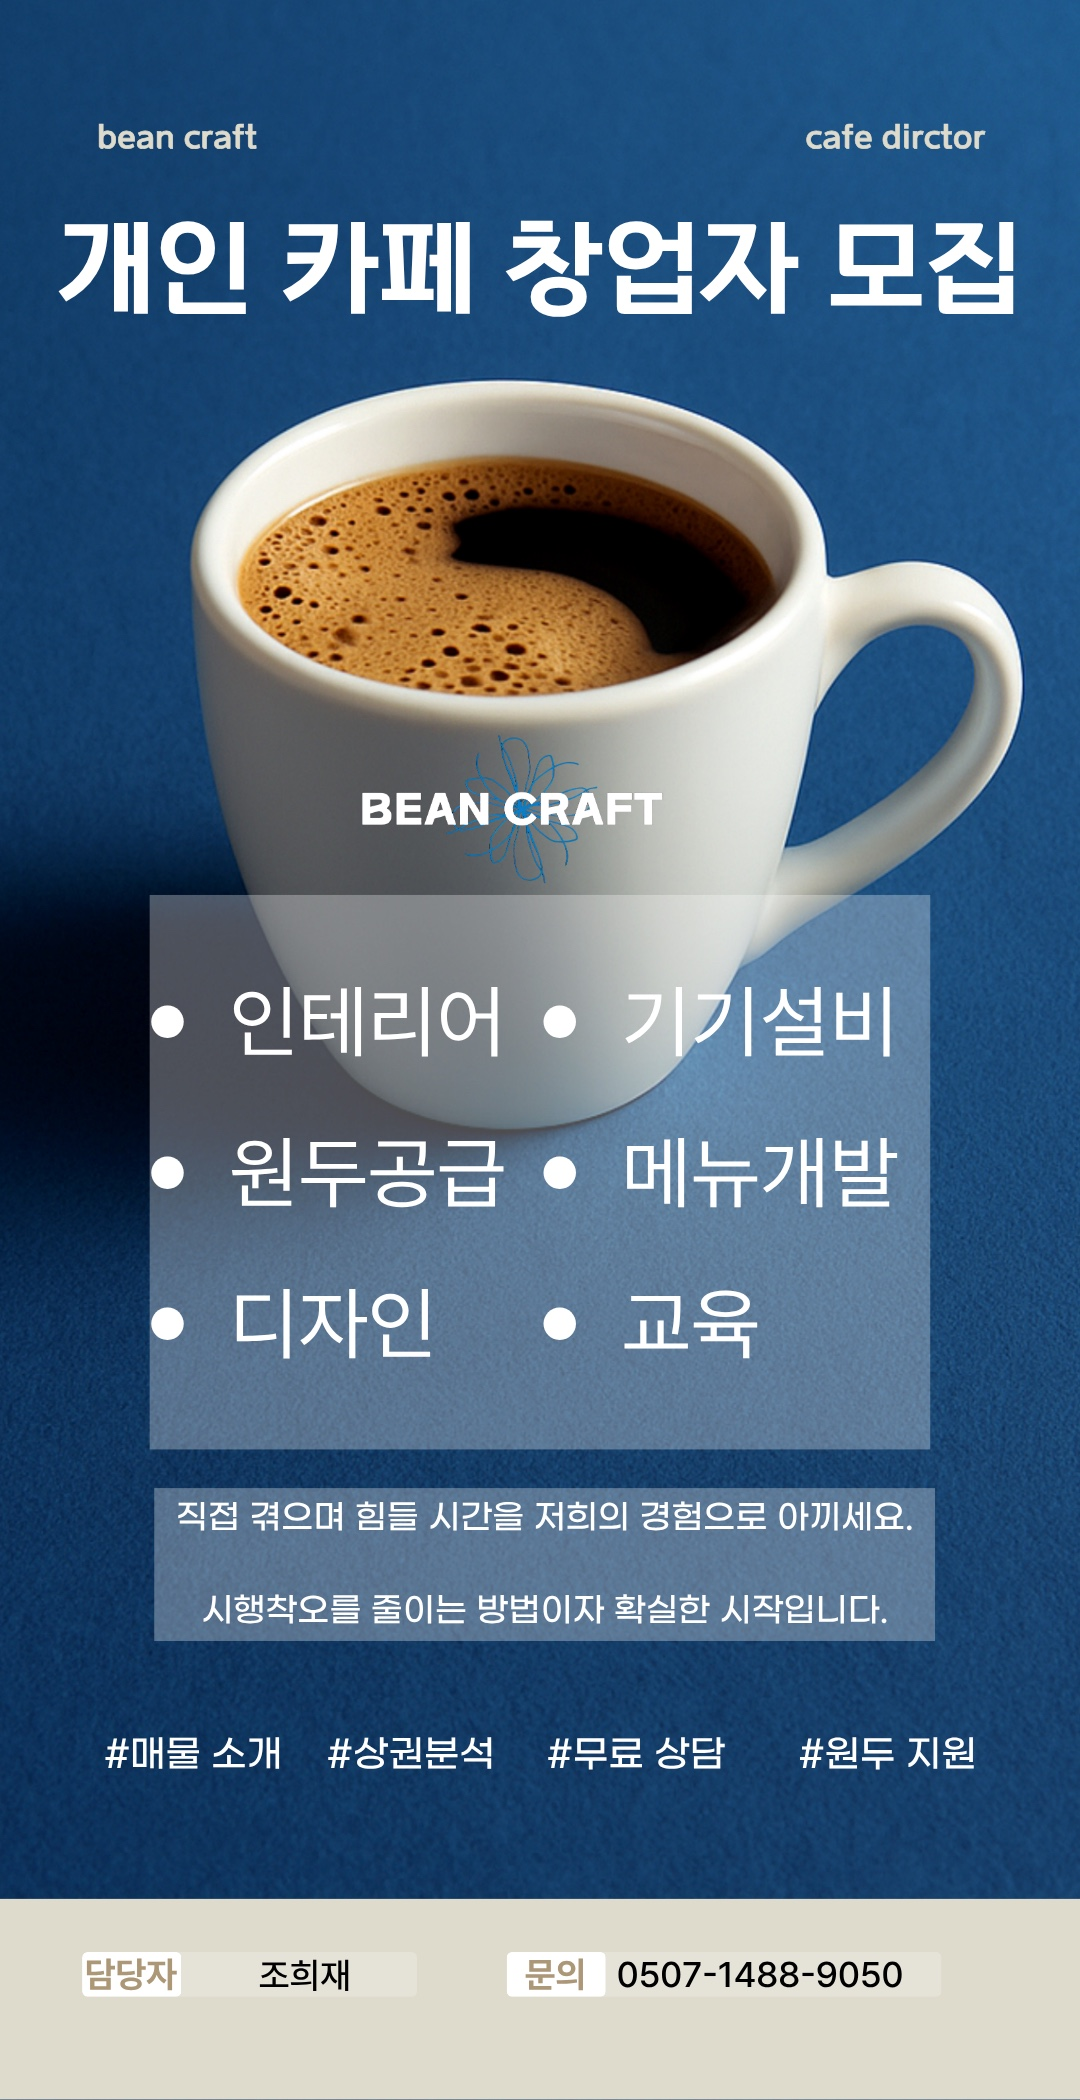
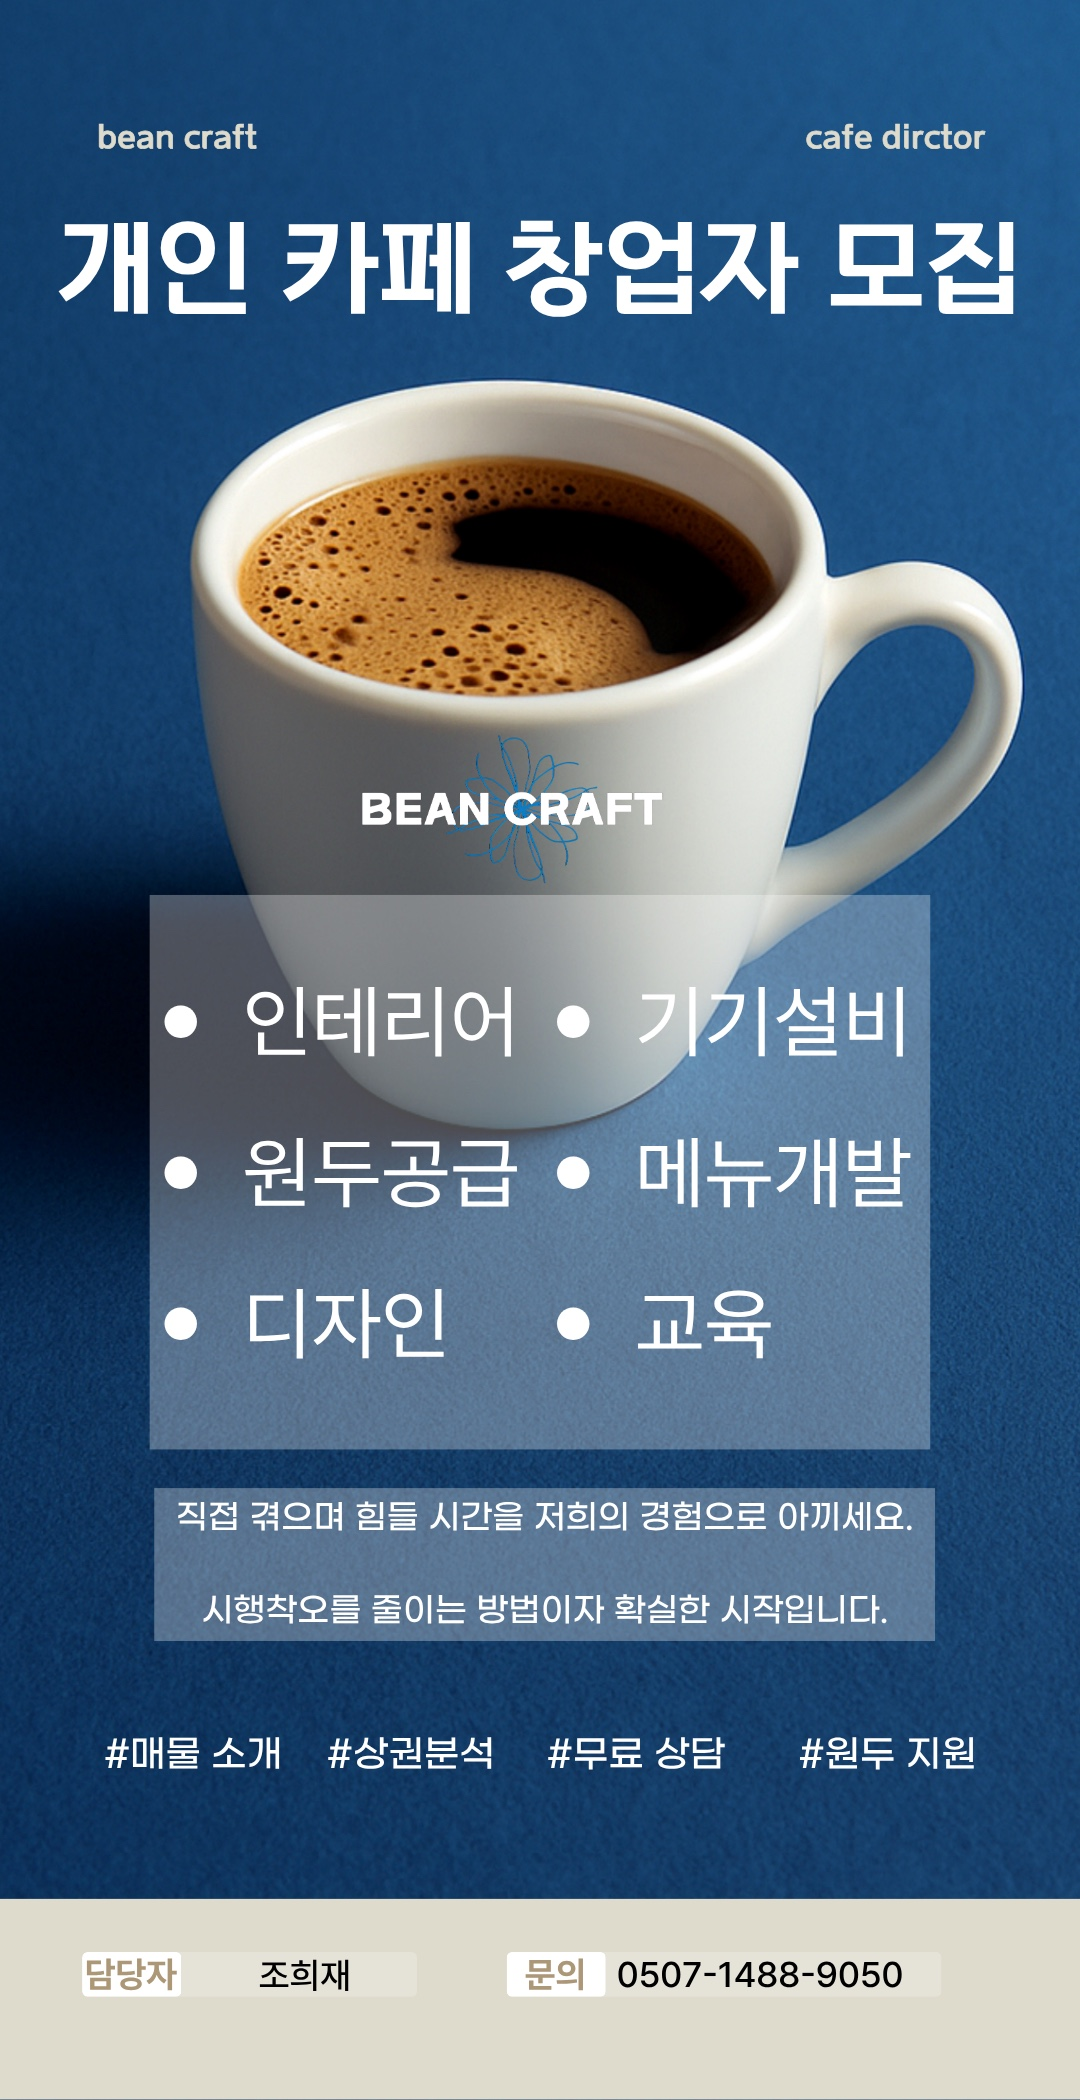
feat: 001 이미지 업데이트 + 캐시 버스터 v=20260507c

diff --git a/marketing/late/index.html b/marketing/late/index.html
@@ -244,11 +244,11 @@ img, .card, .header, .copyright-bar, .watermark-overlay { -webkit-user-drag: non
   <div class="bc-entry-popup-box">
     <div class="bc-entry-popup-slider">
       <div class="bc-slide active" data-idx="0">
-        <img src="assets/001.jpg?v=20260507b" alt="빈크래프트 - 개인 카페 컨설팅" onclick="BCEntryPopup.zoom('assets/001.jpg?v=20260507b')">
+        <img src="assets/001.jpg?v=20260507c" alt="빈크래프트 - 개인 카페 컨설팅" onclick="BCEntryPopup.zoom('assets/001.jpg?v=20260507c')">
         <div class="bc-zoom-hint">🔍 크게 보기</div>
       </div>
       <div class="bc-slide" data-idx="1">
-        <img src="assets/002.jpg?v=20260507b" alt="빈크래프트 - 주요 서비스" onclick="BCEntryPopup.zoom('assets/002.jpg?v=20260507b')">
+        <img src="assets/002.jpg?v=20260507c" alt="빈크래프트 - 주요 서비스" onclick="BCEntryPopup.zoom('assets/002.jpg?v=20260507c')">
         <div class="bc-zoom-hint">🔍 크게 보기</div>
       </div>
     </div>
